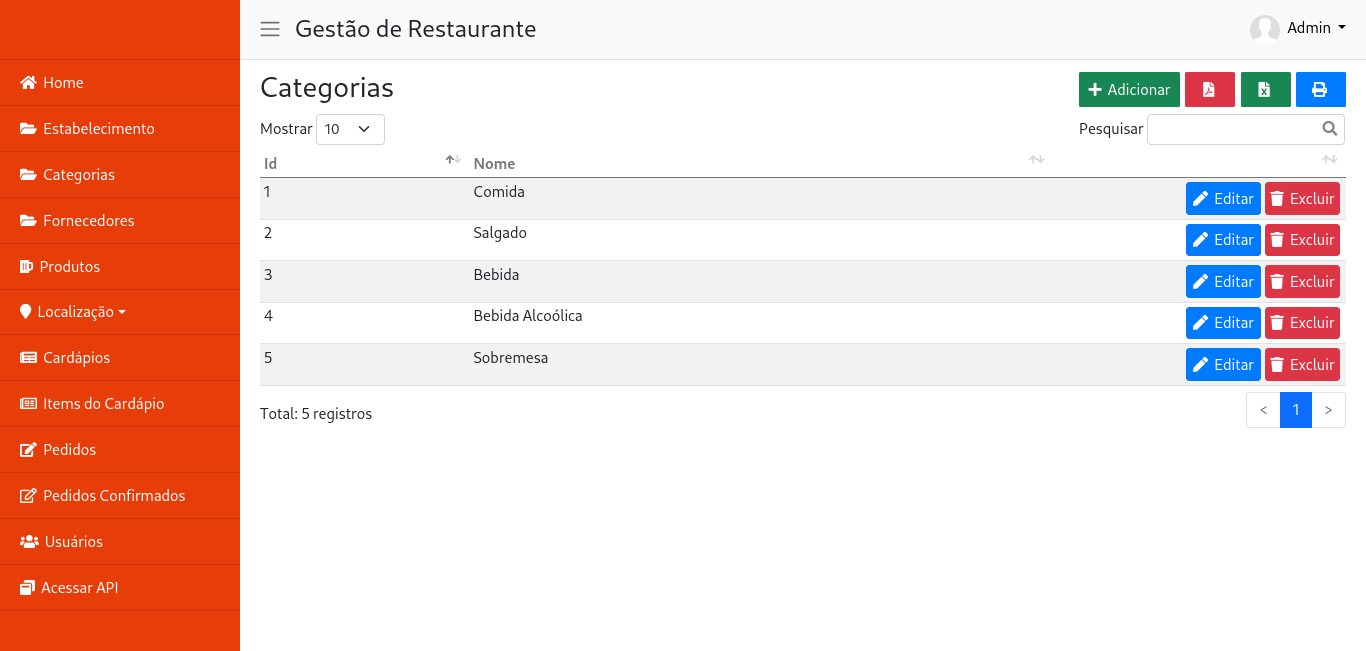
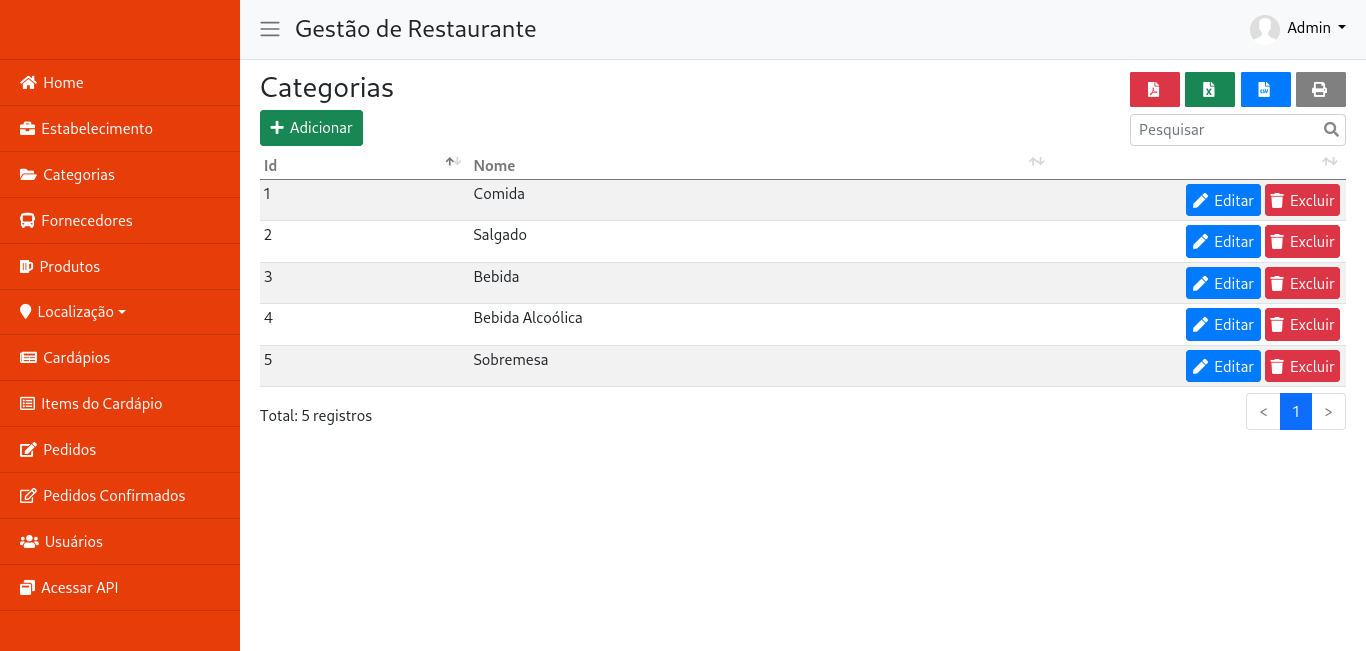
Atualização de arquivos

diff --git a/src/main/resources/templates/fragments/layout.html b/src/main/resources/templates/fragments/layout.html
@@ -32,13 +32,13 @@
                 <i class="fas fa-home"></i> Home</a>
             <a class="list-group-item list-group-item-action bg-menu text-white"
                th:href="@{/estabelecimento/estabelecimentos}">
-                <i class="fas fa-folder-open"></i> Estabelecimento</a>
+                <i class="fas fa-briefcase"></i> Estabelecimento</a>
             <a class="list-group-item list-group-item-action bg-menu text-white"
                th:href="@{/categoria/categorias}">
                 <i class="fas fa-folder-open"></i> Categorias</a>
             <a class="list-group-item list-group-item-action bg-menu text-white"
                th:href="@{/fornecedor/fornecedores}">
-                <i class="fas fa-folder-open"></i> Fornecedores</a>
+                <i class="fas fa-bus"></i> Fornecedores</a>
             <a class="list-group-item list-group-item-action bg-menu text-white"
                th:href="@{/produto/produtos}">
                 <i class="fas fa-beer"></i> Produtos</a>
@@ -57,7 +57,7 @@
                 <i class="fas fa-newspaper"></i> Cardápios</a>
             <a class="list-group-item list-group-item-action bg-menu text-white"
                th:href="@{/cardapio/cardapio-itens}">
-                <i class="fas fa-newspaper" style="font-weight: 100 !important"></i> Items do Cardápio</a>
+                <i class="fas fa-list-alt" style="font-weight: 100 !important"></i> Items do Cardápio</a>
             <a class="list-group-item list-group-item-action bg-menu text-white" th:href="@{/pedido/pedidos}">
                 <i class="fas fa-edit"></i> Pedidos</a>
             <a class="list-group-item list-group-item-action bg-menu text-white"

diff --git a/src/main/resources/templates/indexAdmin.html b/src/main/resources/templates/indexAdmin.html
@@ -9,7 +9,7 @@
         <div class="card col-card bg-card">
             <div class="card-icon">
                 <a th:href="@{/estabelecimento/estabelecimentos}">
-                    <i class="fas fa-folder-open fa-fw fa-4x padding-y-3xs"></i>
+                    <i class="fas fa-briefcase fa-fw fa-4x padding-y-3xs"></i>
                 </a>
             </div>
             <div class="card-text text-right">
@@ -29,7 +29,7 @@
         <div class="card col-card bg-card">
             <div class="card-icon">
                 <a th:href="@{/fornecedor/fornecedores}">
-                    <i class="fas fa-folder-open fa-fw fa-4x padding-y-3xs"></i>
+                    <i class="fas fa-bus fa-fw fa-4x padding-y-3xs"></i>
                 </a>
             </div>
             <div class="card-text text-right">
@@ -59,7 +59,7 @@
         <div class="card col-card bg-card">
             <div class="card-icon">
                 <a th:href="@{/cardapio/cardapio-itens}">
-                    <i class="fas fa-newspaper fa-fw fa-4x padding-y-3xs" style="font-weight: 100 !important"></i>
+                    <i class="fas fa-list-alt fa-fw fa-4x padding-y-3xs" style="font-weight: 100 !important"></i>
                 </a>
             </div>
             <div class="card-text text-right">

diff --git a/src/main/resources/static/css/style.css b/src/main/resources/static/css/style.css
@@ -286,7 +286,7 @@ form {
 }
 
 .navbar div:first-child {
-    width: 60% !important;
+    width: 65% !important;
     float: left !important;
 }
 
@@ -297,7 +297,7 @@ form {
 }
 
 .navbar div:last-child {
-    width: 40%;
+    width: 35%;
     text-align: right;
 }
 
